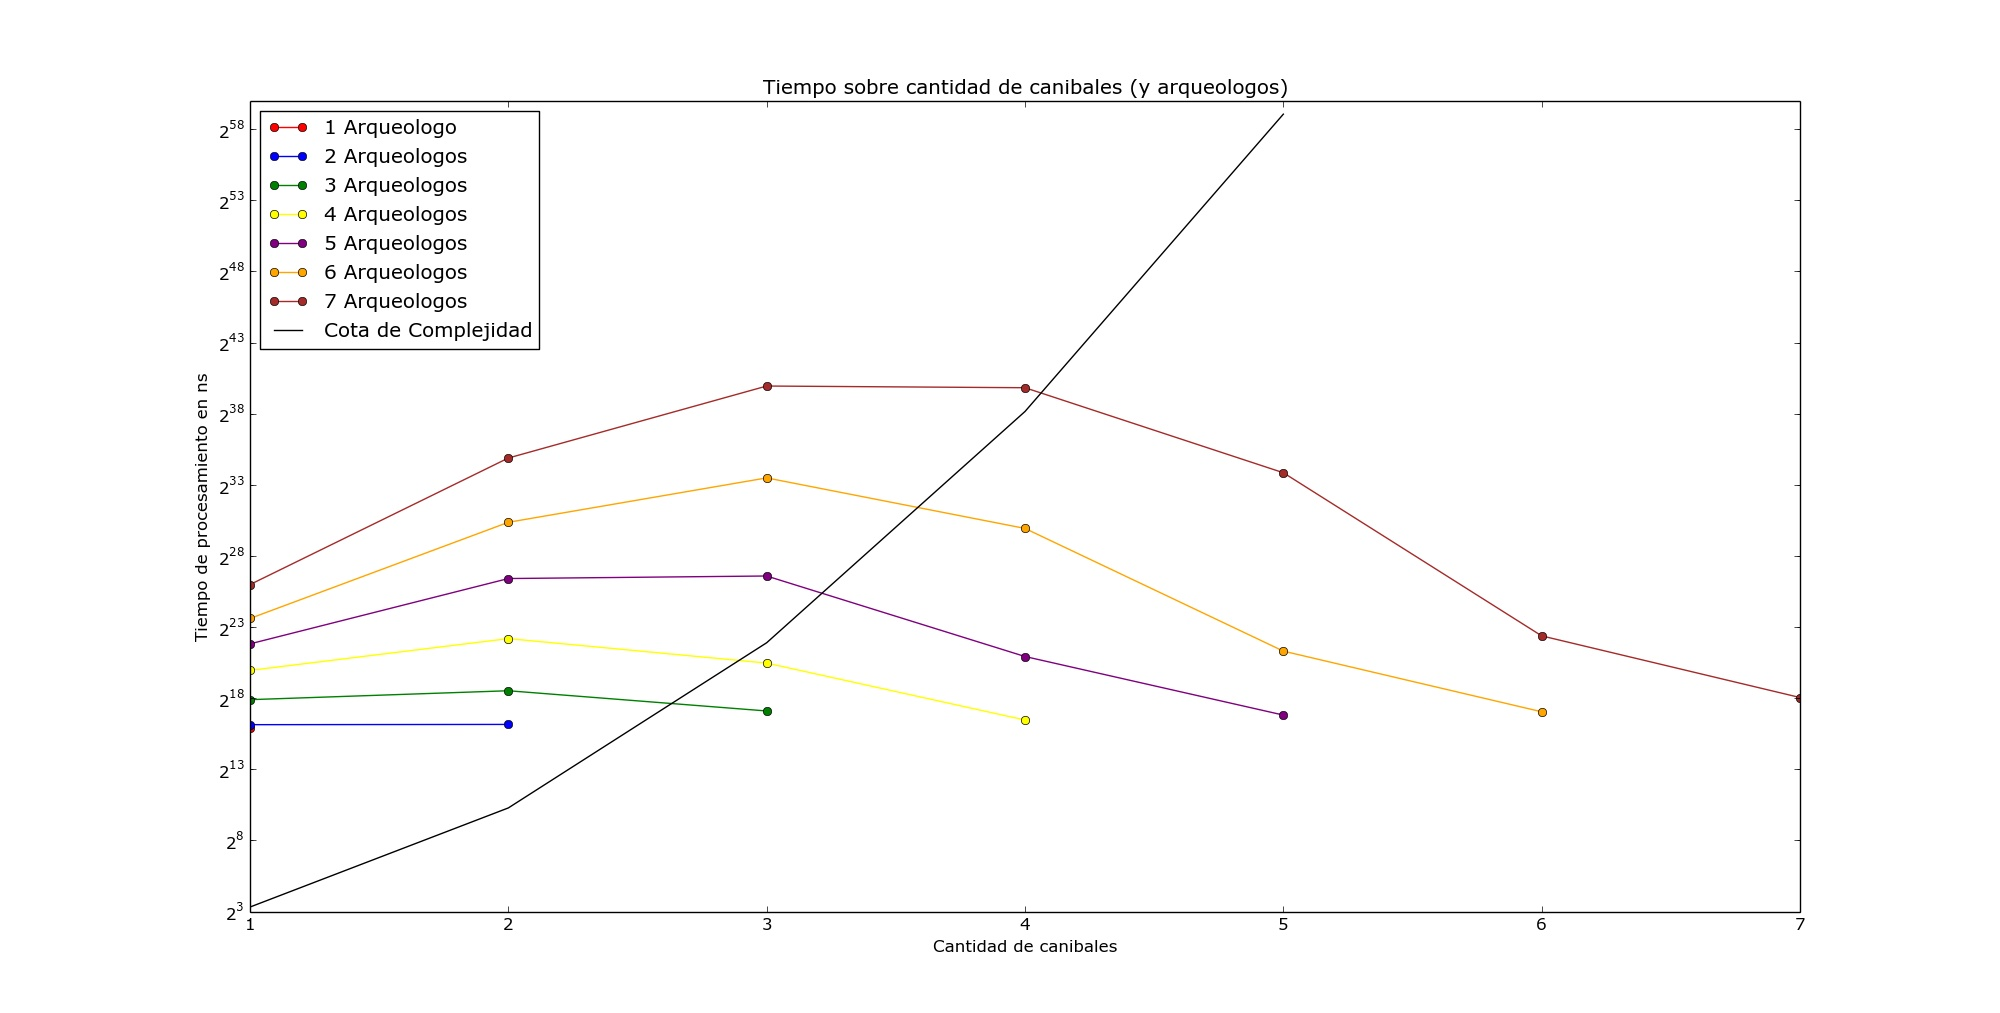
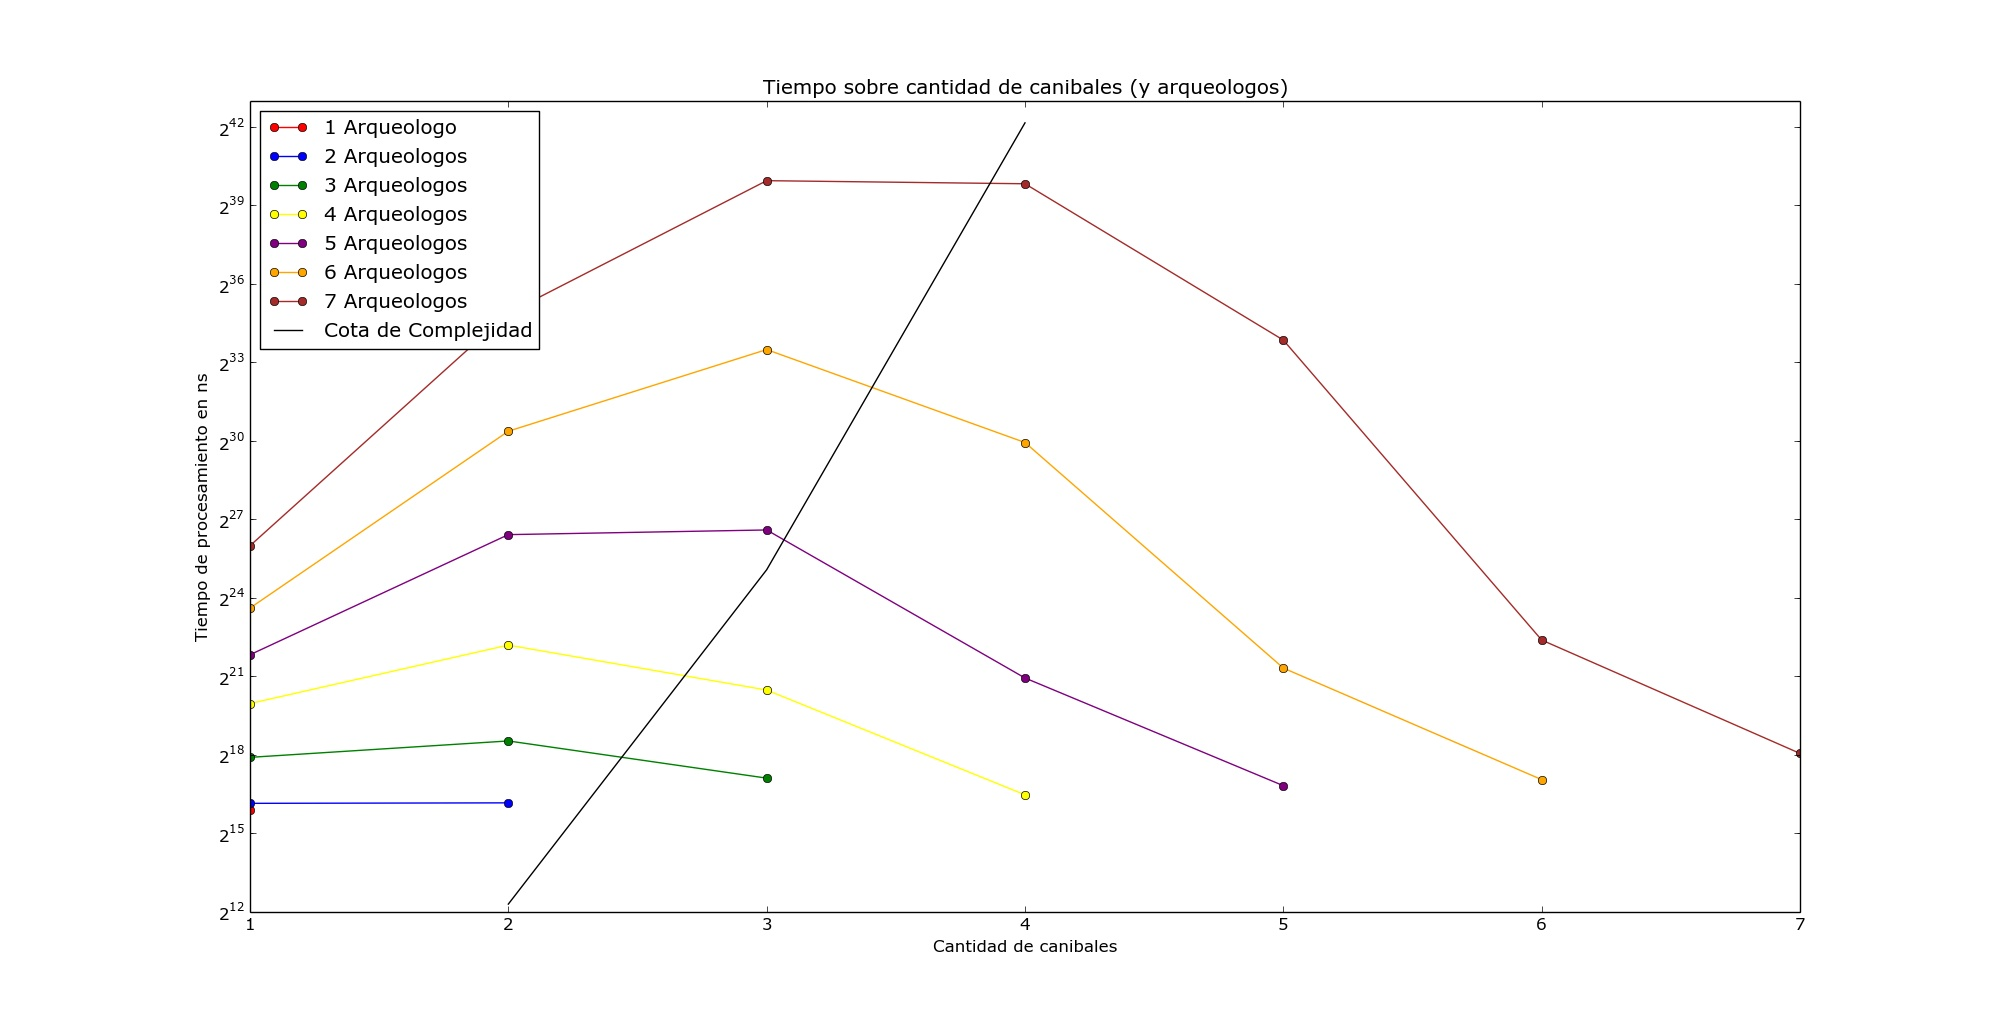
fixes en complejidad ej1

diff --git a/latex/ej1.tex b/latex/ej1.tex
@@ -128,7 +128,7 @@
 
       El algoritmo comienza tomando $2$ vectores ($arqs$ y $cani$), siendo uno para los arqueólogos y otro para los caníbales. En cada posición de $arqs$ y $cani$ se encontrará una velocidad correspondiente a algún arqueólogo o caníbal. El tamaño de cada vector será igual a la cantidad de arqueólogos/caníbales que se tomaron como entrada. Llamaremos $n$ a la cantidad de arqueólogos. Además, dada la lógica del algoritmo, si hay más caníbales que arqueólogos al comenzar, la ejecución termina sin llamar a la función principal y devuelve $-1$ inmediatamente, ya que no hay forma de que al comienzo haya más arqueólogos que caníbales en el lado izquierdo. En cambio, si hay $0$ aqrueólogos o más arqueólogos que caníbales, sí se llama a la función que realiza \emph{Backtracking}.
       En ella, se utilizan $2$ vectores más para poder distinguir el lado del que se encuentra cada arqueólogo y cada caníbal. La inserción y eliminación de cada elemento en cada vector será de $O(1)$ amortizado ya que en caso de que el vector deba redimencionarse, se copian todos los elementos del vector a uno más grande dejando como complejidad $O(n)$.
-      En cada llamada a la función principal del algoritmo, se prueban $5$ casos: que cruce un arqueólogo solo, un canibal solo, dos arqueólogos, dos caníbales o un caníbal y un arqueólogo. Luego, cada nodo del árbol tendrá 5 hijos. Cada uno de ellos, será un posible estado válido, que se chequea revisando un vector de \emph{estados válidos}, que a lo sumo tendrá el tamaño de la altura del árbol a causa de mantener todos los estados válidos anteriores a cada nodo, y por lo tanto tomará $O(n^2)$ (probado más adelante). Si es un estado válido, se realizarán las operaciones necesarias para decidir quién cruzará el puente, las cuales consisten en los movimientos de personas entre vectores (que toma complejidad $O(n)$), previamente habiendo ordenado cada vector (en $O(n $log$ n)$) y luego llamar recursivamente a la función principal, lo que da una complejidad de $O(n $log$ n)$ para las operaciones que no son la llamada recursiva. Dado que se quieren probar todos los estados válidos, podemos decir que la complejidad temporal será el tiempo que tome recorrer cada uno de estos estados, que a la vez equivalen a los nodos del árbol de ejecución. Como fue mencionado en la sección de \textbf{Solución Propuesta}, en caso de haber un caso inválido, este es descartado para probar otros casos posibles es decir la altura del árbol está acotada por la cantidad total de estados válidos. Este número se calcula de la siguiente manera:
+      En cada llamada a la función principal del algoritmo, se prueban $5$ casos: que cruce un arqueólogo solo, un canibal solo, dos arqueólogos, dos caníbales o un caníbal y un arqueólogo. Luego, cada nodo del árbol tendrá 5 hijos. Cada uno de ellos, será un posible estado válido, que se chequea revisando un vector de \emph{estados válidos}, que a lo sumo tendrá el tamaño de la altura del árbol a causa de mantener todos los estados válidos anteriores a cada nodo, y por lo tanto tomará $O(n^2)$ (probado más adelante). Si es un estado válido, se realizarán las operaciones necesarias para decidir quién cruzará el puente, las cuales consisten en los movimientos de personas entre vectores (que toma complejidad $O(n)$), previamente habiendo ordenado cada vector (en $O(n $log$ n)$) y luego llamar recursivamente a la función principal, lo que da una complejidad de $O(n^2)$ para las operaciones que no son la llamada recursiva. Dado que se quieren probar todos los estados válidos, podemos decir que la complejidad temporal será el tiempo que tome recorrer cada uno de estos estados, que a la vez equivalen a los nodos del árbol de ejecución. Como fue mencionado en la sección de \textbf{Solución Propuesta}, en caso de haber un caso inválido, este es descartado para probar otros casos posibles es decir la altura del árbol está acotada por la cantidad total de estados válidos. Este número se calcula de la siguiente manera:
 
       Dado que la cantidad de caníbales está acotada por la cantidad de arqueólogos, la cantidad de formas válidas que hay para repartir a todas las personas en ambos lados del puente manteniendo el invariante de que no haya más caníbales que arqueólogos de ninguno de los dos lados se calcula utilizando combinatoria. La cantidad de caníbales posibles en cada lado del puente es menor o igual a la cantidad de arqueólogos de ese lado (o sea entre $0$ y $n$), pero en caso de que no haya arqueólogos en alguno de los lados, la cantidad de caníbales posibles es igual a la cantidad total de arqueólogos, salvo que no haya ninguno y en ese caso $n$ pasará a ser el número de caníbales totales.
 
@@ -155,7 +155,7 @@
       \]
 
       Entonces, la altura del árbol va a estar acotada por $O(n^2)$.
-      Retomando, llegamos a que la complejidad de encontrar las soluciones está acotada por $O(b^h)$ donde $b$ es la cantidad de ramas que se abren en cada nodo, $h$ es la altura del árbol y todo esto es el tamaño del árbol. Como mencionamos anteriormente, $b$ es exactamente $5$ y la altura del árbol está acotada por $O(n^2)$. Luego, la complejidad temporal para encontrar las soluciones sería $O(5^{n^2})$. Pero hasta aquí no tenemos en cuenta que cada nodo cuesta $O(n^2)$. Incorporando esto a la complejidad anterior en la cual suponíamos que cada nodo tenía costo $O(1)$, nos queda que la complejidad temporal en peor caso es $O(2 * 5^{n^2}) \in O(5^{n^2})$.
+      Retomando, llegamos a que la complejidad de encontrar las soluciones está acotada por $O(b^h)$ donde $b$ es la cantidad de ramas que se abren en cada nodo, $h$ es la altura del árbol y todo esto es el tamaño del árbol. Como mencionamos anteriormente, $b$ es exactamente $5$ y la altura del árbol está acotada por $O(n^2)$. Luego, la complejidad temporal para encontrar las soluciones sería $O(5^{n^2})$. Pero hasta aquí no tenemos en cuenta que cada nodo cuesta $O(n^2)$. Incorporando esto a la complejidad anterior en la cual suponíamos que cada nodo tenía costo $O(1)$, nos queda que la complejidad temporal en peor caso es $O(n^2 * 5^{n^2})$.
 
       En cuanto a la complejidad espacial, se utiliza un historial de estados anteriores en los que se van guardando los estados válidos por los que se pasó hasta cierto punto en cada nodo del árbol. Se usa como si fuera una pila y cada vez que se accede a un nivel inferior en el árbol de ejecución, se guarda el estado actual de los caníbales, los arqueólogos y la linterna; mientras que cuando se sube en el árbol, se elimina el último estado actual. Debido a esto, la complejidad espacial en es $O(n^2)$ ya que la pila tendrá a lo sumo el mismo tamaño que la cantidad de estados en la rama más larga, y como probamos antes, este valor está acotado por esa complejidad. Además, lo que se guarda en cada estado son 4 valores enteros que indican la cantidad de arqueólogos y caníbales de cada lado, y un booleano (representado con 1 o 0) que indica de qué lado está la linterna.
 
@@ -165,7 +165,7 @@
     % 5. Realizar una experimentación computacional para medir la performance del programa implementado. Usar un conjunto de casos de test en función de los parámetros de entrada, con instancias aleatorias e instancias particulares (de peor/mejor caso en tiempo de ejecución, por ejemplo). Presentar en forma gráfica una comparación entre los tiempos medidos y la complejidad teórica calculada y extraer conclusiones.
     \subsection{Experimentación}
 
-	Para poder mostrar que la cota propuesta en la complejidad temporal funciona para el algoritmo que resuelve este problema, realizamos experimentos con cantidades de personas entre 1 y 7 pero siempre con mayor o igual número de arqueólogos que de caníbales. Los casos de prueba pueden observarse en la tabla que se encuentra en el anexo de este informe.
+	Para poder visualizar que la cota propuesta en la complejidad temporal funciona para el algoritmo que resuelve este problema, realizamos experimentos con entre 1 y 7 arqueólogos y caníbales, pero siempre con mayor o igual número de los primeros que de los segundos. Los casos de prueba pueden observarse en la tabla que se encuentra en el anexo de este informe.
 
   Los resultados obtenidos fueron plasmados en el siguiente gráfico. El mismo es la representación del tiempo en funcion de la cantidad de arqueólogos. También se muestra la funcion propuesta como cota de complejidad temporal.
 
@@ -177,8 +177,13 @@
       \end{center}
   \end{figure}
 
-  %%%COMPLETAR
-  COMPLETAR
+  Pudimos notar como la cota de complejidad efectivamente cumple su propósito a pesar de que tiene un crecimiento completamente distinto al del algoritmo. Los peores casos encontrados se mantuvieron entre 2 y 3 caníbales para los 7 casos de arqueólogos. Entre 0 y ellos, el crecimiento se asemeja a la función de cota propuesta.
+  Evidentemente, lo que pasaba era que a partir de cierta cantidad de caníbales y arqueólogos, el algoritmo encontraba de manera más rápida que no había forma de que crucen todos los arqueólogos y se salven.
+
+  COMPLETAR?!?!?!?!?!?!?!?!?
+  COMPLETAR?!?!?!?!?!?!?!?!?
+  COMPLETAR?!?!?!?!?!?!?!?!?
+  COMPLETAR?!?!?!?!?!?!?!?!?
 
   Para el caso en que no haya arqueólogos y solo haya caníbales, esperábamos que la resolución del problema sea más rápida que en los casos que hay más arqueólogos que caníbales. Probamos con cantidades de caníbales entre 1 y 200 y en el próximo grafico se ilustran los resultados de tiempo en función del número de personas.
 
@@ -189,4 +194,4 @@
       \end{center}
   \end{figure}
 
-  Notamos como el tiempo que toma a mayor cantidad de caníbales sin arqueólogos crece mucho más lento que para los casos con arqueólogos. Esto se debe a que por un lado, las ramas en que cruzan arqueologos no se prueban, sino que solo se intenta que crucen 1 o 2 caníbales. Luego, la cantidad de estados posibles se reduce a 2 veces la cantidad de formas que se pueden distribuir los caníbales en ambos lados del puente (una por cada lado de la linterna), que es igual a $2*(n^2)$; reducimos la cota de complejidad a $O(n $log$ n*2^{n^2})$. El cambio no es muy grande debido a que las cotas no están totalmente ajustadas, pero funcionan para dar una idea del peor caso acotado por arriba.
+  Notamos como el tiempo que toma a mayor cantidad de caníbales sin arqueólogos crece mucho más lento que para los casos con arqueólogos. Esto se debe a que las ramas en que cruzan arqueologos no se prueban, sino que solo se intenta que crucen 1 o 2 caníbales. Luego, la cantidad de estados posibles se reduce a 2 veces la cantidad de formas que se pueden distribuir los caníbales en ambos lados del puente (una por cada lado de la linterna), que es igual a $2*(n^2)$; reducimos la cota de complejidad a $O(n^2*2^{n^2})$. El cambio no es muy grande debido a que las cotas no están totalmente ajustadas, pero funcionan para dar una idea del peor caso acotado por arriba.

diff --git a/latex/apendice.tex b/latex/apendice.tex
@@ -4,38 +4,38 @@
 
 \begin{table}[H]
 \centering
-\caption{My caption}
-\label{my-label}
-\begin{tabular}{llll}
+% \caption{My caption}
+% \label{my-label}
+\begin{tabular}{lll}
 \hline
-\multicolumn{1}{|l|}{\textbf{Tiempo en ns}} & \multicolumn{1}{l|}{\textbf{Nro Arqs}} & \multicolumn{1}{l|}{\textbf{Nro Cani}} & \multicolumn{1}{l|}{\textbf{Total personas}} \\ \hline
-60283                                       & 1                                      & 1                                      & 1                                            \\
-72174                                       & 2                                      & 1                                      & 1                                            \\
-73101                                       & 2                                      & 2                                      & 2                                            \\
-244089                                      & 3                                      & 1                                      & 1                                            \\
-376942                                      & 3                                      & 2                                      & 2                                            \\
-140744                                      & 3                                      & 3                                      & 3                                            \\
-1015891                                     & 4                                      & 1                                      & 1                                            \\
-4779930                                     & 4                                      & 2                                      & 2                                            \\
-1451661                                     & 4                                      & 3                                      & 3                                            \\
-90518                                       & 4                                      & 4                                      & 4                                            \\
-3699654                                     & 5                                      & 1                                      & 1                                            \\
-89181072                                    & 5                                      & 2                                      & 2                                            \\
-100932180                                   & 5                                      & 3                                      & 3                                            \\
-1998558                                     & 5                                      & 4                                      & 4                                            \\
-115257                                      & 5                                      & 5                                      & 5                                            \\
-12750260                                    & 6                                      & 1                                      & 1                                            \\
-1380760800                                  & 6                                      & 2                                      & 2                                            \\
-12017366000                                 & 6                                      & 3                                      & 3                                            \\
-1024082800                                  & 6                                      & 4                                      & 4                                            \\
-2600562                                     & 6                                      & 5                                      & 5                                            \\
-135313                                      & 6                                      & 6                                      & 6                                            \\
-66468300                                    & 7                                      & 1                                      & 1                                            \\
-31612728000                                 & 7                                      & 2                                      & 2                                            \\
-1054921400000                               & 7                                      & 3                                      & 3                                            \\
-971867840000                                & 7                                      & 4                                      & 4                                            \\
-15451590000                                 & 7                                      & 5                                      & 5                                            \\
-5464967                                     & 7                                      & 6                                      & 6                                            \\
-270902                                      & 7                                      & 7                                      & 7                                           
+\multicolumn{1}{|l|}{\textbf{Tiempo en ns}} & \multicolumn{1}{l|}{\textbf{Nro Arqs}} & \multicolumn{1}{l|}{\textbf{Nro Cani}} \\ \hline
+60283                                       & 1                                      & 1                                      \\
+72174                                       & 2                                      & 1                                      \\
+73101                                       & 2                                      & 2                                      \\
+244089                                      & 3                                      & 1                                      \\
+376942                                      & 3                                      & 2                                      \\
+140744                                      & 3                                      & 3                                      \\
+1015891                                     & 4                                      & 1                                      \\
+4779930                                     & 4                                      & 2                                      \\
+1451661                                     & 4                                      & 3                                      \\
+90518                                       & 4                                      & 4                                      \\
+3699654                                     & 5                                      & 1                                      \\
+89181072                                    & 5                                      & 2                                      \\
+100932180                                   & 5                                      & 3                                      \\
+1998558                                     & 5                                      & 4                                      \\
+115257                                      & 5                                      & 5                                      \\
+12750260                                    & 6                                      & 1                                      \\
+1380760800                                  & 6                                      & 2                                      \\
+12017366000                                 & 6                                      & 3                                      \\
+1024082800                                  & 6                                      & 4                                      \\
+2600562                                     & 6                                      & 5                                      \\
+135313                                      & 6                                      & 6                                      \\
+66468300                                    & 7                                      & 1                                      \\
+31612728000                                 & 7                                      & 2                                      \\
+1054921400000                               & 7                                      & 3                                      \\
+971867840000                                & 7                                      & 4                                      \\
+15451590000                                 & 7                                      & 5                                      \\
+5464967                                     & 7                                      & 6                                      \\
+270902                                      & 7                                      & 7                                      
 \end{tabular}
 \end{table}

diff --git a/latex/ej3.tex b/latex/ej3.tex
@@ -251,5 +251,3 @@
       \end{figure}
 
         Luego en base a los resultados, se puede observar que dentro de las variables es la cantidad de mochilas una de las que influye fuertemente en el tiempo de ejecución. Esto se debe pues, como fue explicado en la \textbf{solución propuesta}, a que las dimensiones de las matrices a recorrer, son del tamaño de la capacidad de las mochilas. Por esto a mayor cantidad de mochilas y mayor capacidad, el tiempo de ejecución es mayor. Por otro lado se puede obesrvar, que la complejidad teórica calculada es correcta según la experimentación.
-
-        SE HACE EL EXPERIMENTO CON MÁS OBJETOS ?

diff --git a/src/graficarEj1.py b/src/graficarEj1.py
@@ -36,7 +36,7 @@ while k < len(x):
 # print(listaPares)
 # np.savetxt("mydata.csv", listaPromedio, fmt='%1u' )
 
-cota = '2*(5**(x**2))'
+cota = '(2*(x**2))*(5**(x**2))'
 grafCota = graph(cota, range(1,6))
 
 promedio1NP = np.array(listaPromedio[0:1]) # 1arq
